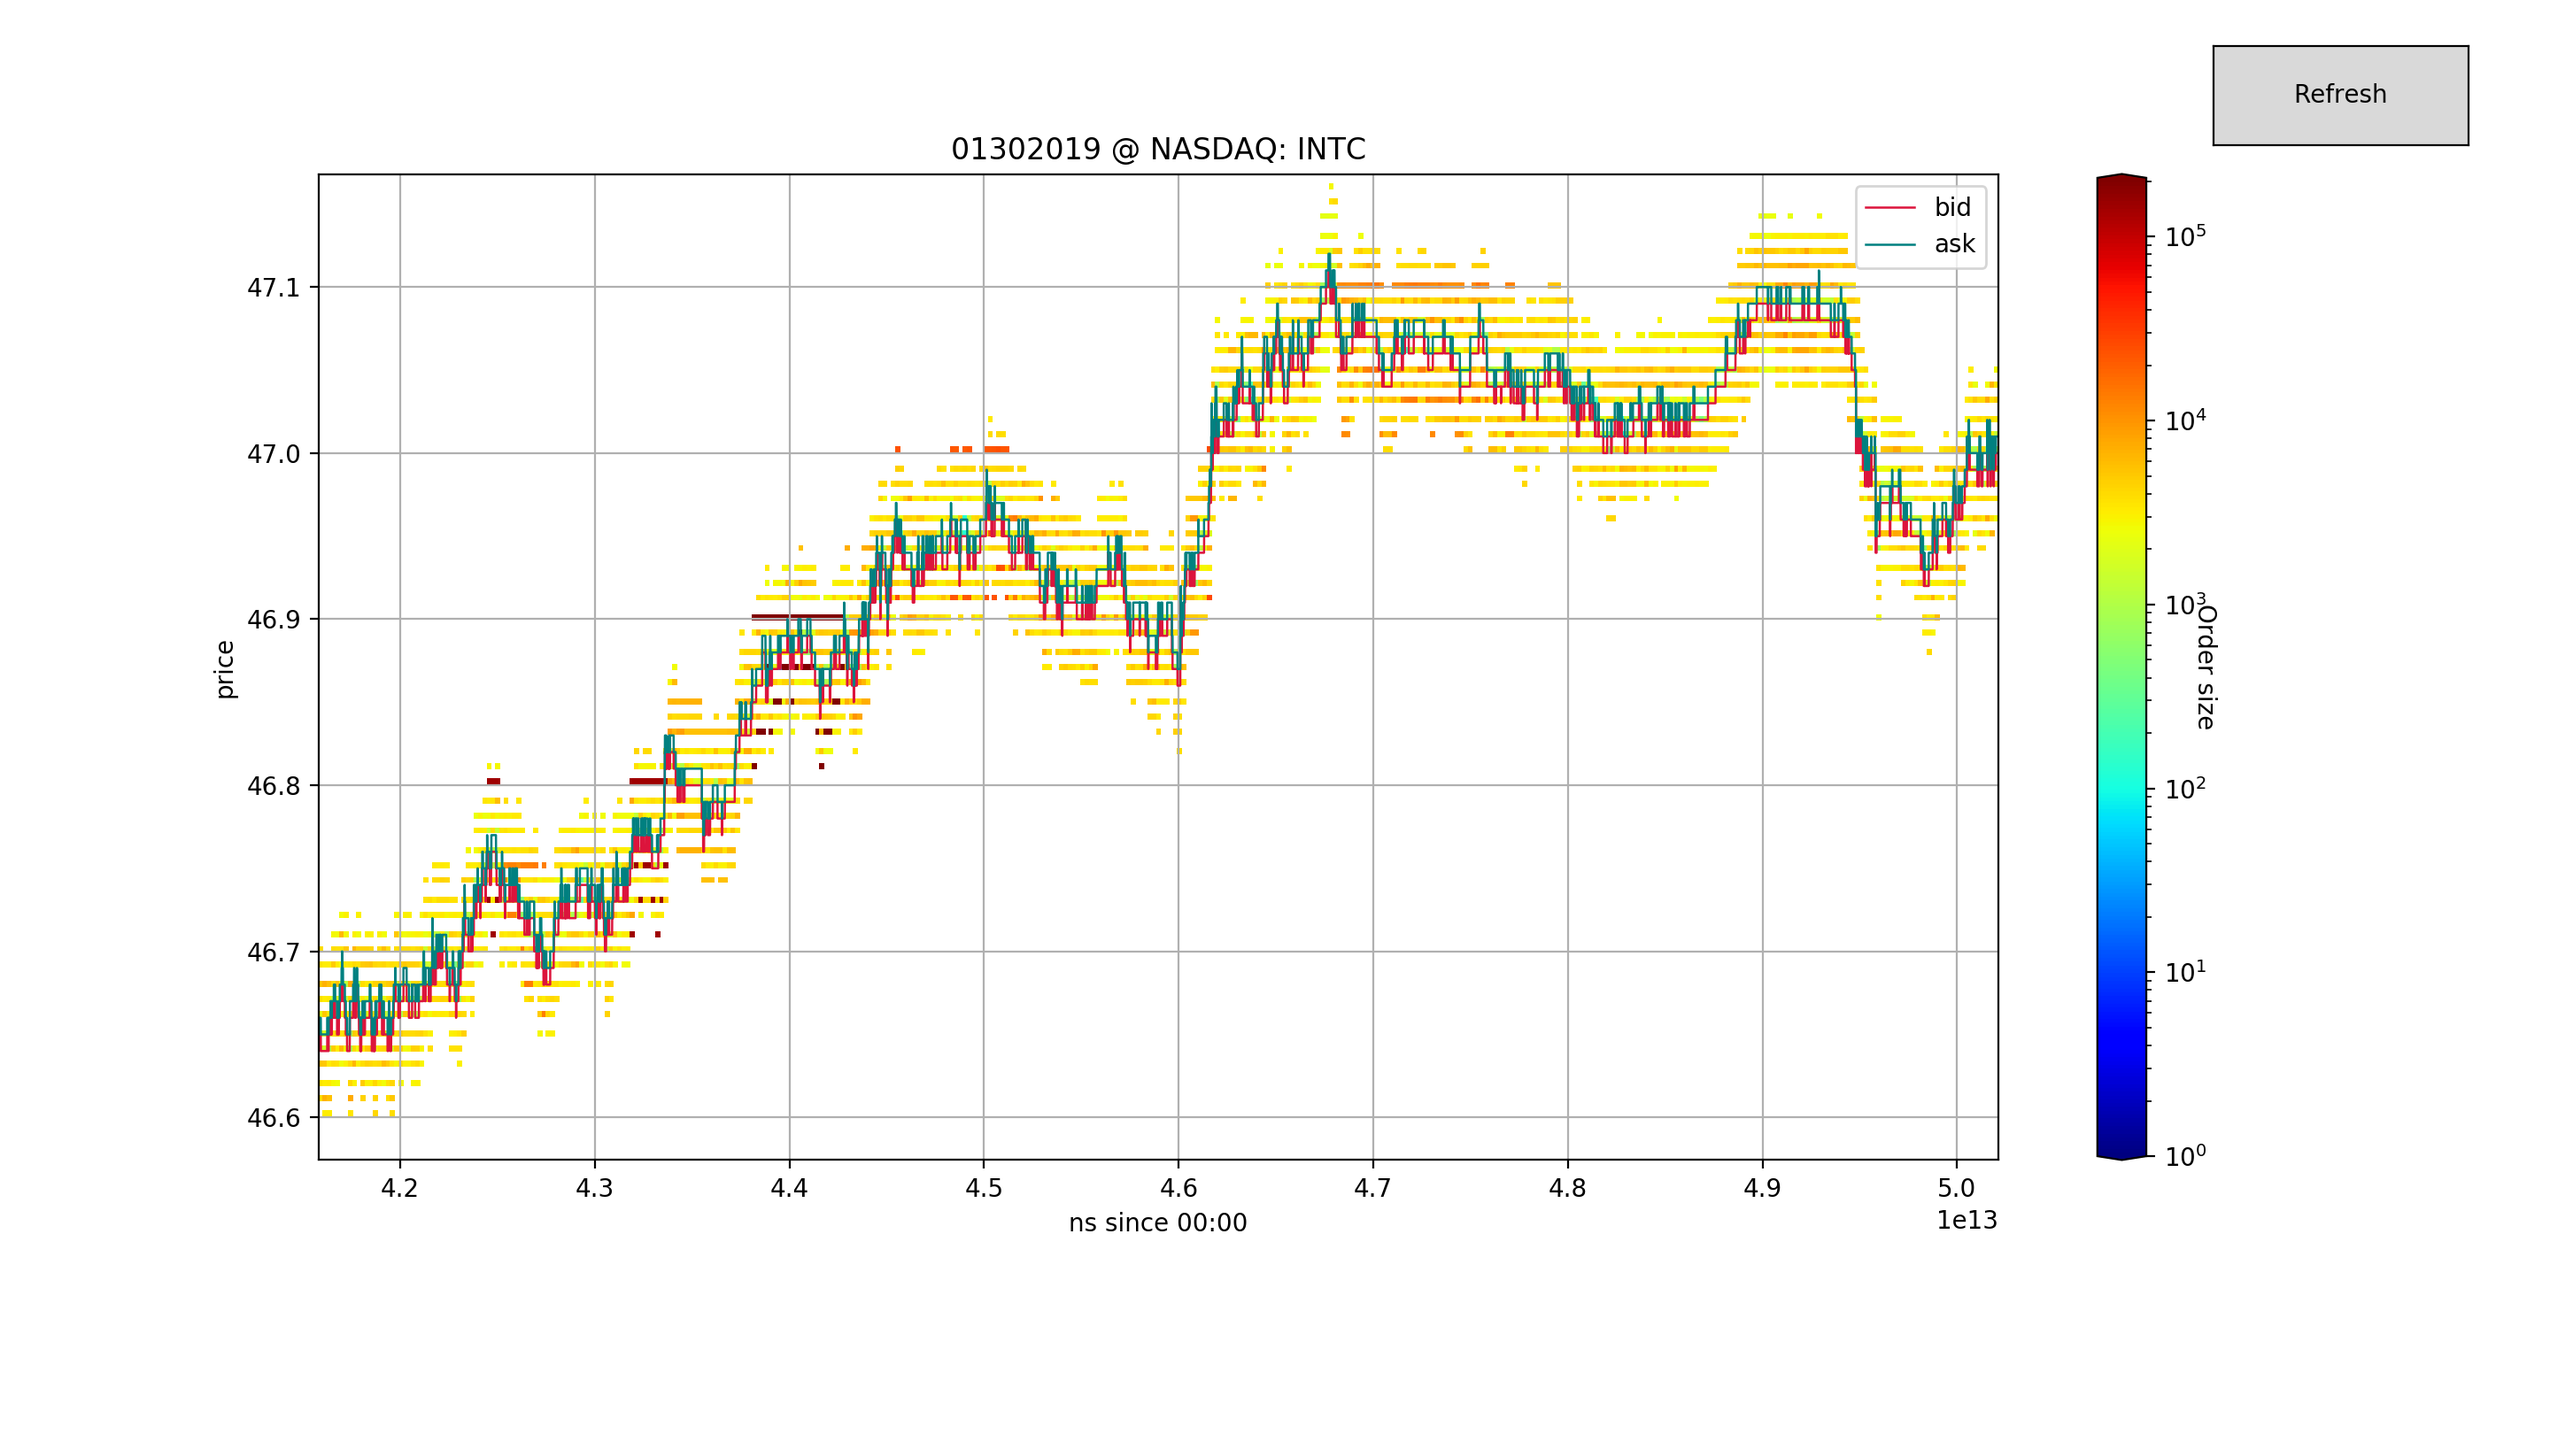
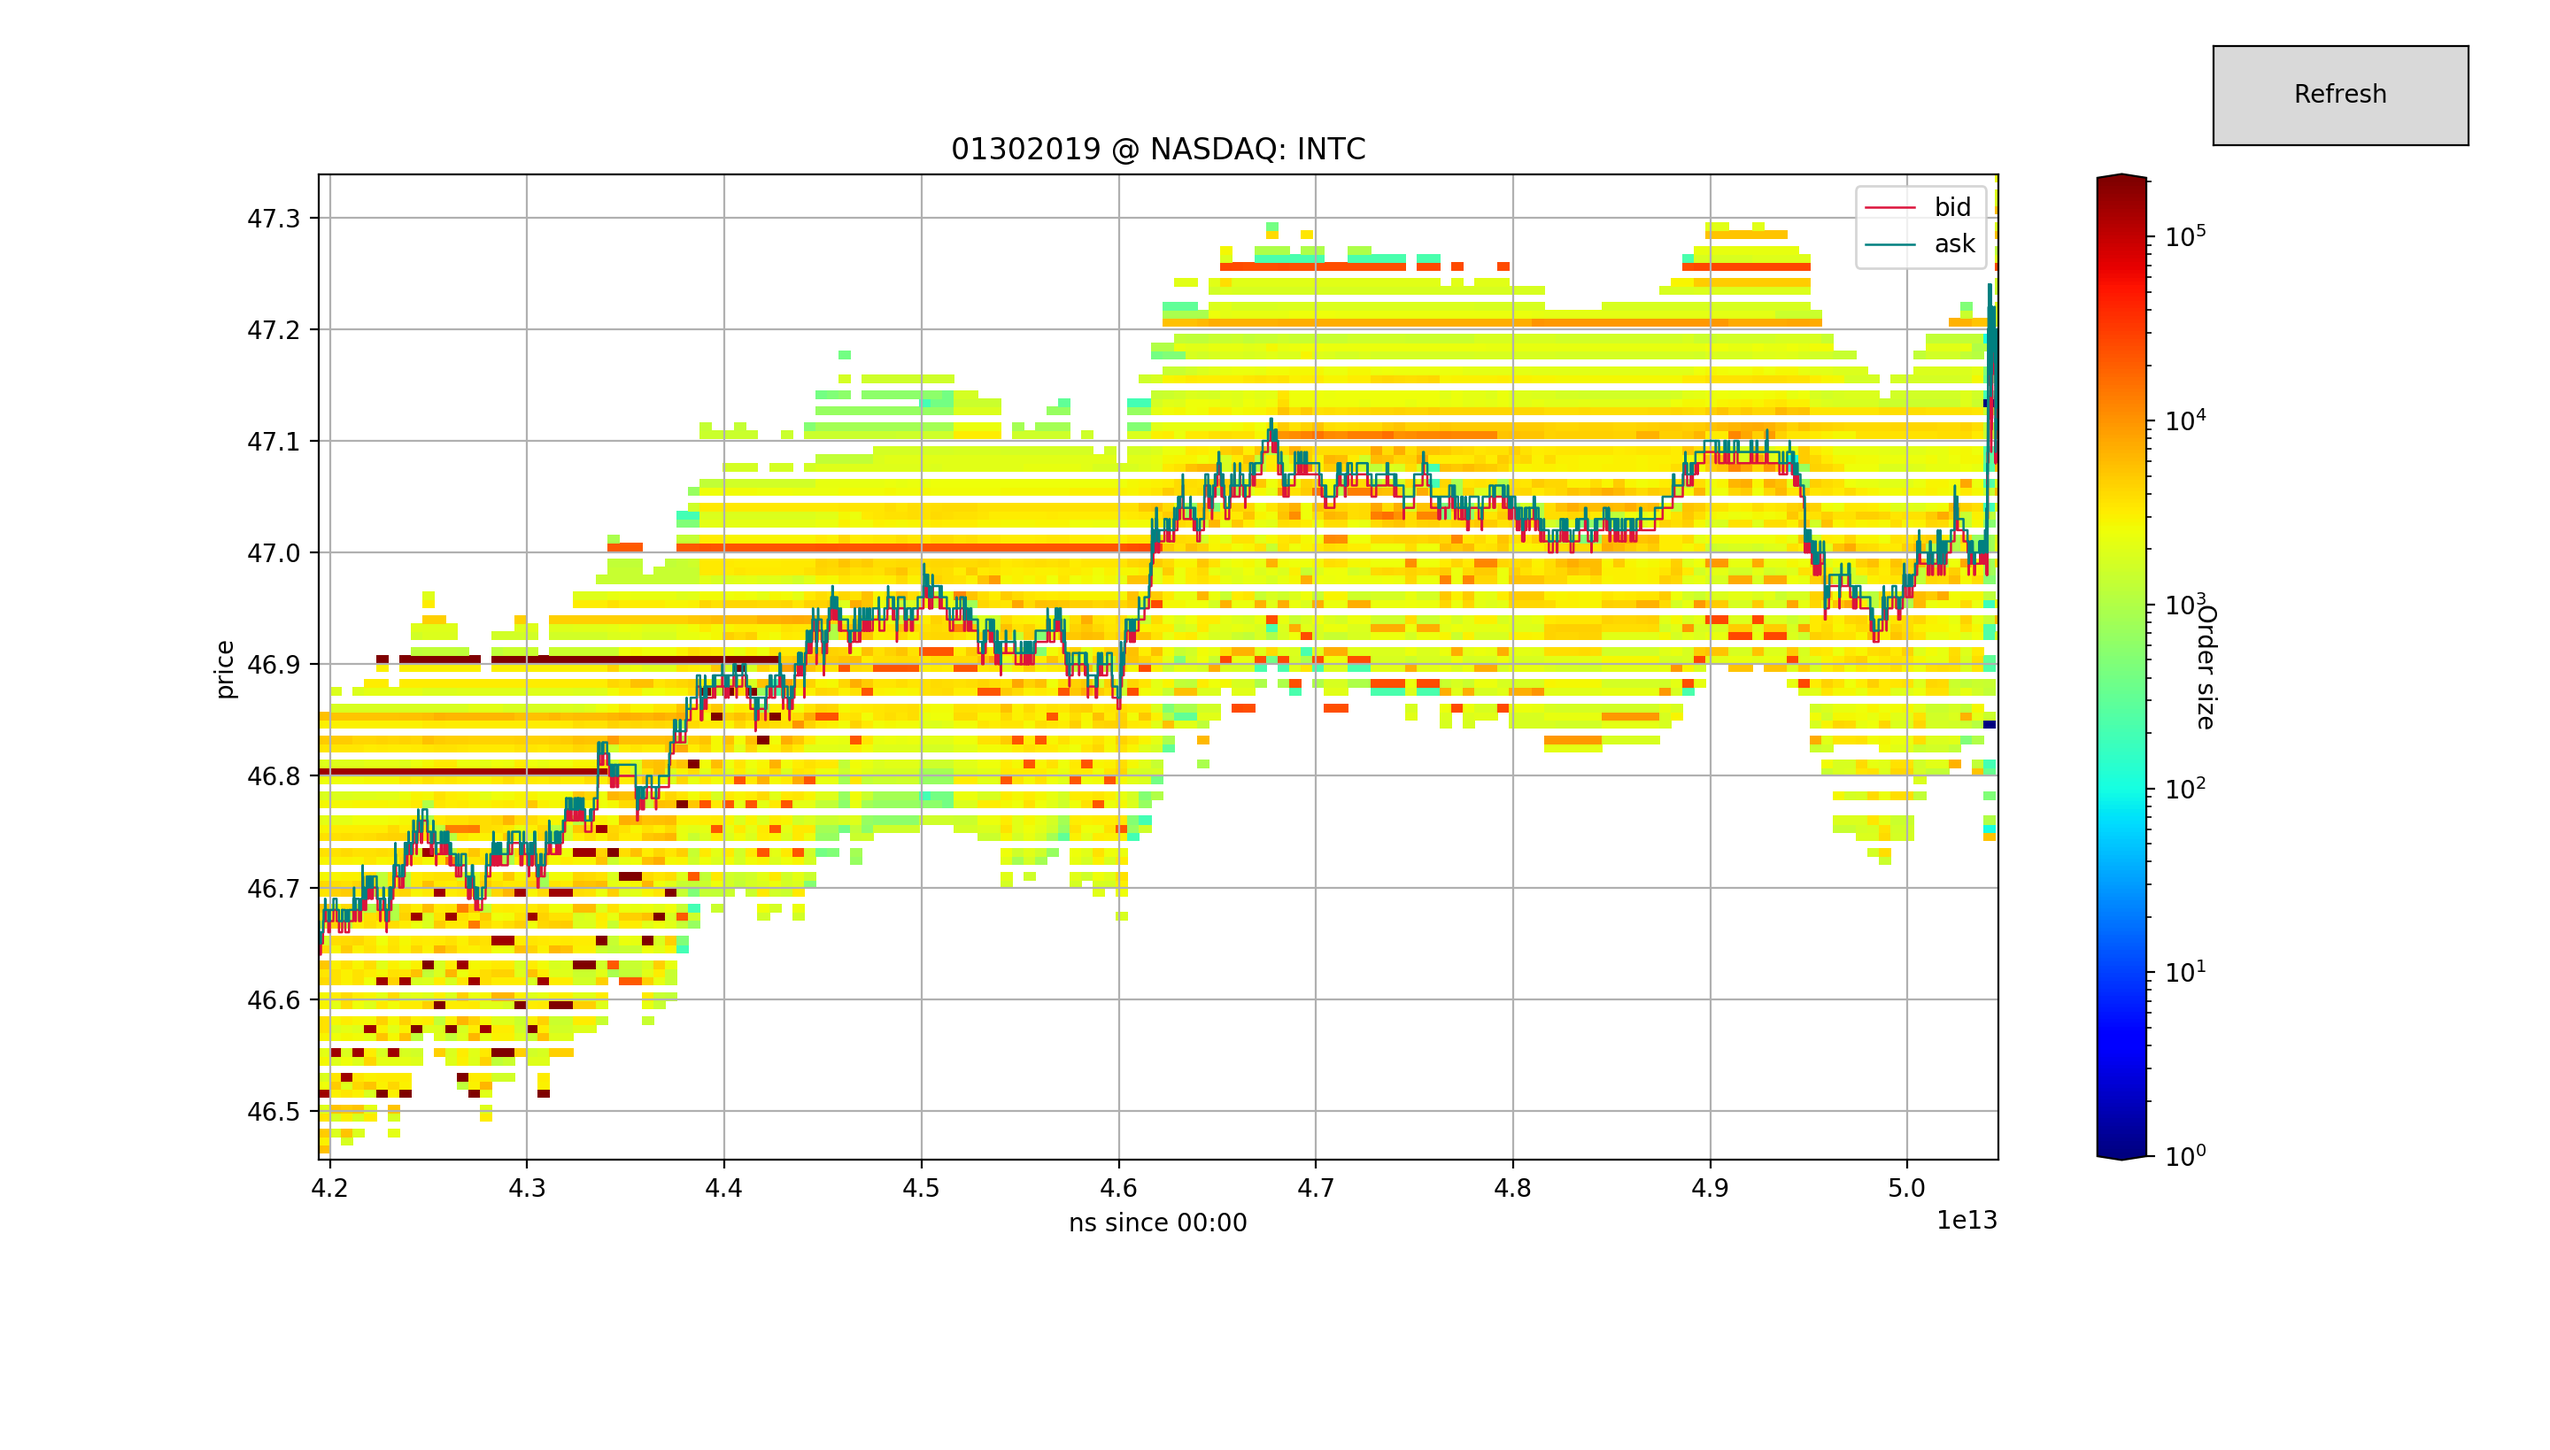
better image

diff --git a/python/environment.py b/python/environment.py
@@ -360,6 +360,6 @@ if __name__ == '__main__':
         PATH = sys.argv[4]
     else:
         PATH = os.path.dirname(os.path.realpath(__file__))
-    a = ts(date,venue,stock,PATH,5)
+    a = ts(date,venue,stock,PATH,20)
     a.plot_liquidity_heatmap()
 
